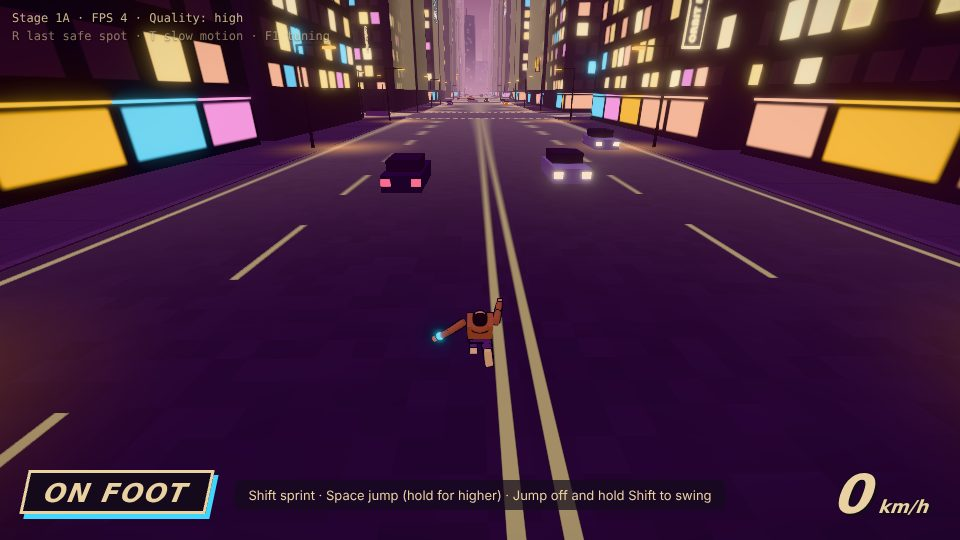
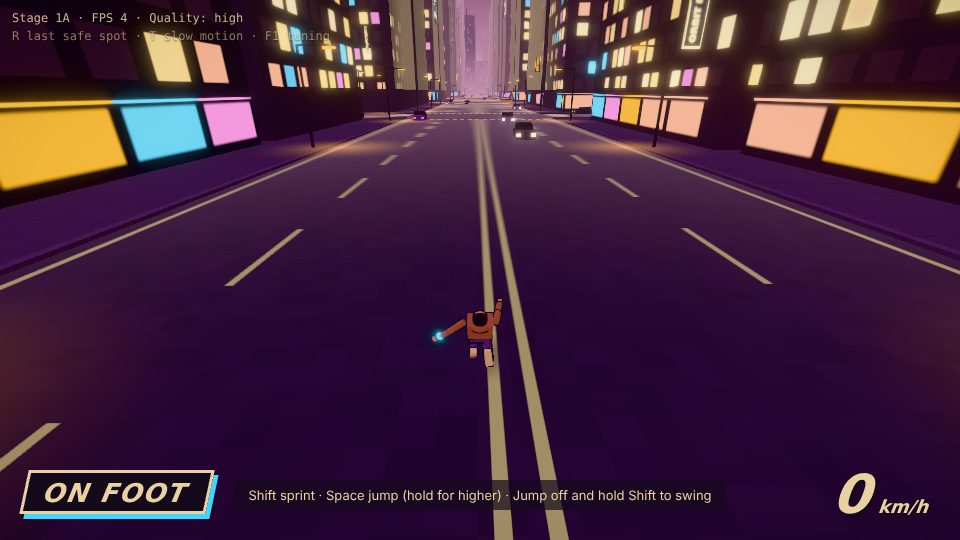
Record stage 1A notes, plan and refreshed previews
Also adds performance telemetry to the test hooks and the smoke test.

Claude-Session: https://claude.ai/code/session_018m73srk6qNtzKT2Esf6qd4

diff --git a/src/main.ts b/src/main.ts
@@ -164,6 +164,10 @@ const telemetry = {
   /** Per state: steps, summed and highest speed (km/h). */
   states: {} as Record<string, { steps: number; sumKmh: number; maxKmh: number }>,
   events: {} as Record<string, number>,
+  /** CPU time: summed simulation step and whole-frame milliseconds. */
+  simMs: 0,
+  frameMs: 0,
+  frames: 0,
 };
 const recordStep = (): void => {
   telemetry.steps++;
@@ -251,12 +255,17 @@ const loop = new GameLoop(
   () => tuning.physics.maxStepsPerFrame,
   {
     step(dt) {
+      const started = testMode ? performance.now() : 0;
       buildSimInput();
       sim.step(dt, simInput);
       simTime += dt;
-      if (testMode) recordStep();
+      if (testMode) {
+        telemetry.simMs += performance.now() - started;
+        recordStep();
+      }
     },
     render(alpha, frameDt) {
+      const frameStarted = testMode ? performance.now() : 0;
       if (input.consumePress('KeyT')) slowMo = !slowMo;
       hitStop = Math.max(0, hitStop - frameDt);
       loop.timeScale = hitStop > 0 ? 0.04 : slowMo ? tuning.debug.slowMoScale : 1;
@@ -352,6 +361,10 @@ const loop = new GameLoop(
         },
         camera,
       );
+      if (testMode) {
+        telemetry.frameMs += performance.now() - frameStarted;
+        telemetry.frames++;
+      }
     },
   },
 );
@@ -364,6 +377,7 @@ if (testMode) {
       sim,
       tuning,
       telemetry,
+      stats,
       cameraRig,
       simTime: () => simTime,
       setLockstep: (steps: number) => {

diff --git a/NOTLAR.md b/NOTLAR.md
@@ -17,6 +17,70 @@ Sonraki ajan sohbet geçmişini görmez; bağlam bu dosya, `BRIEF.md` ve `PLAN.m
 
 ---
 
+## 2026-10-06 — Aşama 1A: hareket çekirdeği ve görsel stil
+
+- **Ajan / ortam:** Claude Code (bulut). Ubuntu 24.04, Node 22, ekran kartı yok.
+- **Branch / PR:** `claude/ecstatic-bardeen-6fncjx` → `main` (PR #2). Branch kuralı değişti: bulut oturumunun atadığı branch kullanılır, sorulmaz.
+- **Görev metni:** `docs/asamalar/asama-1a.md`.
+- **Bu oturumda Emirhan'ın kararları:** branch kuralı yukarıdaki gibi; BRIEF Bölüm 1'deki kararların hepsi onaylandı. Kahramanın adı hâlâ yok.
+
+### Ne yapıldı
+
+- **Hareket çekirdeği** (`src/player/playerSim.ts`): durumlar Grounded, Airborne, Swinging, Zip, WallRun, WallClimb, Mantle, Dive, Landing. Saniyede 120 sabit adım (`src/core/loop.ts`), çizim adımlar arasında enterpole ediliyor; T ile ağır çekim.
+  - Koşu: ivmelenme eğrisi, frenleme, dönüşte hafif kayma, inişten gelen fazla hızın yavaş erimesi. Coyote time, zıplama tamponu, basılı tutma süresine göre zıplama yüksekliği.
+  - Çarpışma: eksene hizalı kutular üzerinde süpürmeli çarpışma ve kayma (`src/world/collision.ts`, `src/player/mover.ts`). 100 m/s'de bile duvar delinmiyor. Kaldırım ve parapet gibi basamaklar otomatik aşılıyor.
+  - Halat (`src/player/grapple.ts`): bağlantı noktası gidilen yönde, önde ve yukarıda, görüş hattı açık bir cephe noktası olarak seçiliyor; sağ/sol sırayla değişiyor. İp gerilince uzamıyor, gevşeyince sarkıyor. Konum tabanlı kısıt kullanılıyor, enerji eklemiyor (testli). WASD ile pompalanabiliyor.
+  - Salınım düzlemi yardımı: halat cepheye çizilir, ama fizik dönme noktası hareket düzlemine kaydırılır. Böylece salınım duvara değil cadde boyunca akar. Bu olmadan zincir duvarlara çarpıp bozuluyordu.
+  - Shift basılıyken salınım yay sonunda kendiliğinden bırakılır (ileri ve yukarı itkiyle) ve tepe noktasında yeni halat atılır. Uzun caddede durmadan salınma buradan geliyor.
+  - Zip: nişangâhtaki noktaya çekilme. Çatı kenarına gelirse kenarın üstüne çıkar ve hızın bir kısmını korur; duvara gelirse duvara yapışır.
+  - Dalış: C ile. Shift ile dalıştan salınıma geçiliyor.
+  - Duvarda koşma: yeterli hız ve sığ açıyla, Shift basılıyken. Duvardan sıçrama da var.
+  - Tırmanma ve mantle: duvara doğru basınca tırmanma; tepeye varınca çatıya otomatik çıkış. Alçak engellerin üstünden atlama da aynı yolla oluyor.
+  - İnişler: yumuşak, çömelme, yuvarlanma (hızı korur) ve süper kahraman inişi (sarsıntı, toz, kısa donma anı, "THUD!" yazısı).
+  - R son güvenli noktaya döndürür. NaN, sahne dışına çıkma ya da düşme olursa otomatik geri dönülür.
+- **ModeBand** (`src/modes/modeBand.ts`): mod tanımları ve yetenek bayrakları. Simülasyon her yeteneği moda göre açıp kapatıyor. Titan şimdilik yer tutucu; geçiş 1B'de.
+- **Kamera** (`src/player/followCamera.ts`): yaylı kol, binalara girmez. Hızla genişleyen görüş açısı ve kol, salınırken halat tarafına yatma, duvarda koşarken duvardan uzağa yatma, ileri bakış, fare boştayken hareket yönüne dönme, tırmanırken duvara bakış, travma tabanlı sarsıntı, açılışta yaklaşma.
+- **Efektler** (`src/fx/`): bloom, Neutral ton eşleme, renk düzenlemesi, SMAA, hızla artan kromatik aberasyon, çizgi roman hız çizgileri (kendi shader'ımız, saniyede 12 kez yenilenir), vinyet. Kalite ön ayarları Low/Medium/High + Auto (`src/config/quality.ts`).
+- **Şehir v1** (`src/world/cityGen.ts` veri, `src/world/render/` çizim):
+  - 1040 m × 1040 m. Merkezde gökdelen kümesi, kenarlara doğru alçalan binalar; ana cadde (x = 0) uzun ve yüksek duvarlı bir salınma koridoru.
+  - Başlangıç kulesi ana caddenin güney ucunda; ilk karede cadde boyunca şehrin merkezine bakılıyor.
+  - Basamaklı kuleler; çatılarda parapetler, su depoları, klimalar ve yanıp sönen antenler.
+  - Pencereler bina shader'ında çiziliyor: renk sıcaklığı çeşitliliği, ara sıra yanıp sönen pencereler, zemin katta vitrin bantları; uzakta ortalama parıltıya dönüyor.
+  - Yol çizgileri ve yaya geçitleri zemin shader'ında. Kaldırımlar, lambalar ve altlarında sıcak ışık havuzları var.
+  - Uydurma markalı neon tabelalar ve 5 desenli hareketli reklam ekranları (marka adları `src/i18n/en.json`'da). GPU'da akan trafik ve ufukta üç katmanlı silüet.
+- **Kahraman** (`src/player/heroFigure.ts`): eklemli figür, koddan pozlar, "animate on twos", mürekkep konturu, halatı bırakınca takla. Halat şeridi `src/player/ropeVisual.ts`'te; gölge lekesi ve toz `src/fx/heroFx.ts`'te.
+- **Arayüz:** `src/ui/hud.ts` (durum etiketi, ipucu, hız, halat ve zip işaretleri, NO ANCHOR, başlangıç ekranı). F1 paneli `src/ui/debugPanel.ts`'te; gruplar Movement / Rope / Camera / Effects / City / Quality, içinde çizim çağrısı, üçgen ve FPS sayaçları var.
+- **Ses** (`src/audio/sound.ts`): Web Audio ile kodla üretilmiş rüzgâr, halat, zip, iniş ve yakın geçiş sesleri; panelden kapatılabiliyor.
+- **Testler:** 36 Vitest testi (halat enerjisi, bağlantı seçimi, durum geçişleri, şehir tekrarlanabilirliği, çarpışma, tam şehirde betikli koşu). Ayrıca duman testi `tools/smoke/stage1a.mjs`: başsız Chromium'da gerçek tuşlarla rota oynuyor ve `docs/previews/asama-1a/` altına görüntü kaydediyor.
+
+### Ölçümler (duman testi, yazılım WebGL)
+
+- Hızlar (km/h): koşu 46, sprint 70, salınma ortalaması 133 (en fazla 175), dalış 171, tırmanma 21 (Shift ile 25), duvarda koşu 80 civarı (giriş hızı korunur, sonra 80'e iner).
+- Çizim çağrısı 75 (efekt geçişleri ve kahramanın parçaları dahil), yaklaşık 165 bin üçgen, simülasyon adımı 0,03 ms.
+- Gerçek ekran kartında FPS ölçülmedi. Yazılım render'ında 4–8 FPS, bu bir şey göstermez.
+
+### Sonraki ajan için teknik notlar
+
+- Bütün sabitler `src/config/tuning.ts`'te. Hızlar km/h, ivmeler "kaç saniyede" cinsinden.
+- Simülasyon render'dan bağımsız (`PlayerSim` + `SimInput`), Node'da test edilebiliyor. Olaylar `sim.events` ile `main.ts`'e geliyor; efekt, ses ve HUD bunları tüketiyor.
+- `?test` adresinde `window.__game` test kancaları açılıyor (`setLockstep`, `simTime`, `telemetry`, `stats`, `cameraRig`). `?seed=` başka şehir, `?quality=` sabit kalite.
+- Pencere shader'ında örnek başına değerler `flat` geçiyor ve hash tam sayı tabanlı (`hashInt`). Kayan noktalı hash, enterpole edilen tohumla pencerelerde yatay çizgiler yapıyordu.
+- Kamera iniş yayı küçük sabit alt adımlarla entegre ediliyor. Kare süresiyle entegre edilince düşük FPS'te patlıyordu.
+- Shader kaynaklarında ASCII dışı karakter kullanma (bazı sürücüler reddediyor).
+- Aşama 0'ın Blender figürü (`public/assets/test/test_figure.glb`) artık sahnede değil; yerini koddan yapılan figür aldı. Dosya ve betik hat örneği olarak duruyor.
+
+### Bilinen sorunlar
+
+- Halat salınım sırasında binaların içinden geçebilir; sarılma (wrapping) yok. Bağlantı anında görüş hattı kontrol ediliyor.
+- Duvarda koşma ve tırmanma köşeyi dönmüyor; köşede bırakıyor.
+- Lamba direkleri, tabelalar ve arabalar çarpışmasız. Arabalar kavşaklarda birbirinin içinden geçiyor (1A kapsamı: sadece canlılık).
+- Dalışta hız sınırı (175 km/h) yüzünden yatay hız düşüyor, dalış dikleşiyor.
+- JS paketi 860 KB (gzip'li 259 KB); Vite uyarısı three.js ve postprocessing boyutundan geliyor.
+
+### Sıradaki adım
+
+Aşama 1B: bileklikle Titan'a geçiş, oynanış HUD'u, ilk suç sahnesi ve dövüş, açılış menüsü. Önce Emirhan'ın PR #2'deki his anketi cevaplarına ve F1 "Copy values" çıktısına göre `tuning.ts` güncellenmeli.
+
 ## 2026-10-06 — Aşama 0: kurulum ve hat testi
 
 - **Ajan / ortam:** Claude Code (bulut). Ubuntu 24.04, Node 22, 4 çekirdek, 16 GB RAM, ekran kartı yok.

diff --git a/PLAN.md b/PLAN.md
@@ -2,7 +2,7 @@
 
 Ayrıntılar `BRIEF.md` Bölüm 7'de. Bir aşama, "bitti sayılır" şartı sağlanınca işaretlenir.
 
-- [ ] **0. Kurulum** (bulut): iskelet, belgeler, Vercel hattı testi, Blender bulut testi.
+- [x] **0. Kurulum** (bulut): iskelet, belgeler, Vercel hattı testi, Blender bulut testi.
   *Bitti sayılır:* önizleme linkinde test sahnesi açılıyor; Blender sonucu raporlanmış.
   - [x] Proje iskeleti (Vite + TypeScript + Three.js + postprocessing + lil-gui + Vitest)
   - [x] Belgeler (AGENTS, CLAUDE, PLAN, NOTLAR, ASSETS, README) ve `vercel.json`
@@ -10,10 +10,12 @@ Ayrıntılar `BRIEF.md` Bölüm 7'de. Bir aşama, "bitti sayılır" şartı sağ
   - [x] Blender bulut testi (GLB + önizleme render'ı, sonuç `NOTLAR.md`'de)
   - [x] typecheck, test ve build geçiyor; PR açıldı
   - [x] Vercel önizleme derlemesi başarılı (Ready)
-  - [ ] Emirhan önizleme linkinde sahneyi kontrol etti
+  - [x] Emirhan önizlemeyi kontrol etti, PR #1 birleştirildi
 - [ ] **1. Vitrin sürümü** (bulut): her şeyin kaba hâli: stilize şehir, koddan figür kahraman, sivil hareket + Kanca salınması, kamera ve hız efektleri, bileklikle 2 mod geçişi, HUD, bir suç sahnesi (2-3 düşman, basit vuruş), açılış menüsü.
   Öncelik: hareket hissi > görsel stil > HUD > mod geçişi > suç sahnesi > menü.
-  *Bitti sayılır:* linkte baştan sona oynanabilir bir tur.
+  *Bitti sayılır:* linkte baştan sona oynanabilir bir tur. İki oturuma bölündü (görev metinleri `docs/asamalar/`).
+  - [x] **1A. Hareket çekirdeği ve görsel stil:** durum makinesi, koşu/zıplama, halatla salınma ve zincir, zip, dalış, duvarda koşma ve tırmanma, inişler, kamera, hız efektleri, şehir v1, görsel stil, geçici kahraman figürü, F1 paneli, testler ve duman testi.
+  - [ ] **1B. Mod geçişi, HUD, suç sahnesi, menü:** bileklikle Titan'a geçiş, oynanış HUD'u, ilk suç sahnesi ve dövüş, açılış menüsü.
 - [ ] **2. His ayarı** (bulut, gerekirse yerel ajan): salınma, kamera, hız ve kontroller; Emirhan'ın F1 paneli değerleriyle.
   *Bitti sayılır:* Emirhan "hareket iyi hissettiriyor" diyor.
 - [ ] **3. Karakter** (Emirhan: Meshy/Mixamo + bulut; ince ayar: yerel ajan + Blender): gerçek model ve animasyonlar, durum makinesine bağlı, animate on twos.

diff --git a/README.md b/README.md
@@ -3,7 +3,8 @@
 Tarayıcıda çalışan, üçüncü şahıs kameralı, açık şehirde hareket ve dövüş odaklı bir aksiyon oyunu prototipi.
 Three.js + TypeScript + Vite ile yapılıyor, Vercel'de yayınlanıyor.
 
-Şu an **Aşama 0**'dayız: hattın çalıştığını gösteren küçük bir test sahnesi var.
+Şu an **Aşama 1A**'dayız: hareket çekirdeği (koşu, halatla salınma, zip, dalış, duvarda koşma ve tırmanma),
+kamera, hız efektleri, 1 km'lik gece şehri ve koddan yapılmış geçici kahraman figürü hazır.
 Proje belgesi: [BRIEF.md](BRIEF.md) · Plan: [PLAN.md](PLAN.md) · Oturum notları: [NOTLAR.md](NOTLAR.md)
 
 ## Yerelde çalıştırma
@@ -25,11 +26,26 @@ Terminalde çıkan adresi (genelde http://localhost:5173) Chrome ya da Edge'de a
 | `npm run test` | Testleri çalıştırır (Vitest) |
 | `npm run typecheck` | TypeScript tip kontrolü |
 
-## Test sahnesinde kontroller
+## Kontroller
 
 - Ekrana tıkla: fare yakalanır, fareyle etrafa bakarsın. **Esc**: fareyi bırakır.
-- **WASD**: hareket · **Space**: zıplama
+- **WASD**: hareket (kameraya göre).
+- **Shift** (basılı tut): yerde sprint, havada halatla salınma, duvarda koşmaya ya da tırmanmaya devam. Basılı tutarsan salınımlar kendiliğinden zincirlenir.
+- **Space**: yerde zıplama (uzun basınca daha yüksek), havada nişangâhtaki noktaya zip, duvardan sıçrama.
+- **C**: dalış (havada). **R**: son güvenli noktaya dön. **T**: ağır çekim.
 - **F1**: ayar paneli. Değerleri oynarken değiştirebilirsin; "Copy values" o anki değerleri JSON olarak kopyalar.
+
+Adres çubuğu seçenekleri: `?seed=123` başka bir şehir üretir, `?quality=low|medium|high` kaliteyi sabitler.
+
+## Oynanış duman testi
+
+Başsız Chromium'da betikli bir rota oynatır, değerleri kontrol eder ve `docs/previews/asama-1a/` altına ekran görüntüsü kaydeder:
+
+```bash
+npm run build && npx vite preview --port 4173 &
+npm i --no-save playwright-core
+node tools/smoke/stage1a.mjs
+```
 
 ## 3D test figürü (Blender)
 

diff --git a/AGENTS.md b/AGENTS.md
@@ -43,6 +43,7 @@ npm run test         # Vitest
 npm run typecheck    # TypeScript
 npm run build        # tip kontrolü + üretim derlemesi (dist/)
 blender -b --factory-startup -P tools/blender/test_figure.py   # 3D test figürü
+node tools/smoke/stage1a.mjs   # oynanış duman testi (önce build + vite preview, playwright-core --no-save)
 ```
 
 Bulutta Blender kurulu değilse kurulum satırları `NOTLAR.md`'de (Aşama 0 kaydı).
